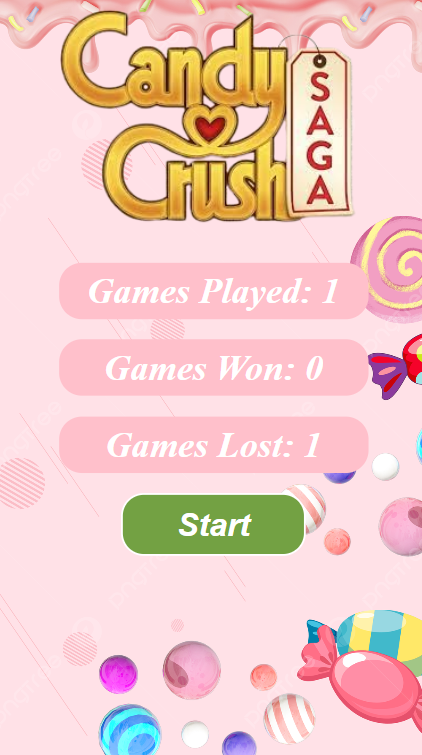
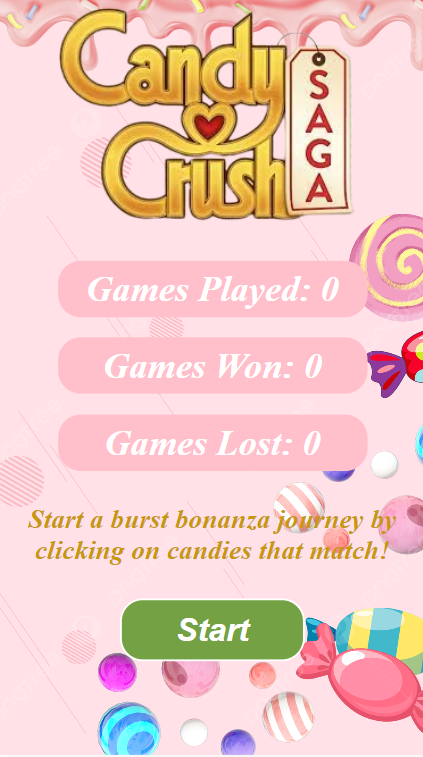
game rule displayed on home screen

diff --git a/src/App.jsx b/src/App.jsx
@@ -45,39 +45,42 @@ function App() {
     dispatch(gameLost());
   };
 
-  const candyImgs = ["/red_jelly.png", "/blue_jelly.png", "/green_jelly.png"];
-
+  // Score update sound when score changes
   useEffect(() => {
     if (totalScore > 0) {
       scoreUpdateAudio.play();
     }
   }, [totalScore]);
 
+  // Game Countdown Timer logic to stop the game
   useEffect(() => {
     if (isGameStarted && !gameOver && totalScore < targetScore) {
       const intervalId = setInterval(() => {
         setTimer((prevTime) => prevTime - 1);
         if (timer === 1) {
-          setIsGameStarted(false);
-          setGameOver(true);
+          setIsGameStarted(false); // Stops the game by setting isGameStarted to false
+          setGameOver(true); // Marks the game as over
           setModalMessage("You Lost! Try Again!");
           setShowModal(true);
-          handleGameLost();
+          handleGameLost(); // Invokes a function to handle the logic for a lost game
           loseAudio.play();
         }
       }, 1000);
 
       return () => {
-        clearInterval(intervalId);
+        clearInterval(intervalId); // interval is cleared when the component unmounts or when dependencies change.
       };
     }
   }, [timer, gameOver, isGameStarted]);
 
-  const generateRandomColors = () => {
+  const candyImgs = ["/red_jelly.png", "/blue_jelly.png", "/green_jelly.png"];
+
+  const generateRandomImages = () => {
     const randomIndex = Math.floor(Math.random() * candyImgs.length);
     return candyImgs[randomIndex];
   };
 
+  // Candy Grid Generation and Image Matching Logic:
   const generateInitialGrid = () => {
     const rows = 10;
     const cols = 10;
@@ -87,7 +90,7 @@ function App() {
     for (let i = 0; i < rows; i++) {
       const row = [];
       for (let j = 0; j < cols; j++) {
-        row.push(generateRandomColors());
+        row.push(generateRandomImages());
       }
       grid.push(row);
     }
@@ -95,6 +98,7 @@ function App() {
   };
 
   const gridSize = 10;
+  const [candyGrid, setCandyGrid] = useState(generateInitialGrid());
 
   const findConnectedCandies = (row, col, color, visited) => {
     if (
@@ -105,10 +109,9 @@ function App() {
       visited[row][col] ||
       candyGrid[row][col] !== color
     ) {
-      return [];
+      return []; // If the current cell is out of bounds, has already been visited, or contains a different color candy,return ([]).
     }
 
-    // visited[row * gridSize + col] = true;
     visited[row][col] = true;
     const connectedCandies = [{ row, col }];
 
@@ -249,7 +252,7 @@ function App() {
         // Update the grid with new colors and reset the game
         const newCandyGrid = candyGrid.map((row, rowIndex) =>
           row.map((col, colIndex) =>
-            visitedMatrix[rowIndex][colIndex] ? generateRandomColors() : col
+            visitedMatrix[rowIndex][colIndex] ? generateRandomImages() : col
           )
         );
 
@@ -257,8 +260,6 @@ function App() {
       }
     }
   };
-
-  const [candyGrid, setCandyGrid] = useState(generateInitialGrid());
 
   const handleRestart = () => {
     // Reset game state
@@ -294,6 +295,7 @@ function App() {
     setCurrentScreen("game");
     setIsGameStarted(true);
   };
+
   useEffect(() => {
     if (isGameStarted) {
       setTimer(timeLimit);

diff --git a/src/Pages/HomePg.jsx b/src/Pages/HomePg.jsx
@@ -12,7 +12,11 @@ const HomePg = ({ gamesPlayed, gamesWon, gamesLost, onStart }) => {
         <h1 className="global-pts-h1">Games Won: {gamesWon}</h1>
         <h1 className="global-pts-h1">Games Lost: {gamesLost}</h1>
       </div>
-
+      <div className="game-rules-txt">
+        <h2>
+          Start a burst bonanza journey by clicking on candies that match!
+        </h2>
+      </div>
       <button className="start-btn" onClick={onStart}>
         Start
       </button>

diff --git a/src/Pages/homePg.css b/src/Pages/homePg.css
@@ -36,6 +36,11 @@
   width: 270px;
   height: 195px;
 }
+.game-rules-txt {
+  text-align: center;
+  font-style: italic;
+  color: #c9970a;
+}
 
 @media (max-width: 415px) {
   .candyCrush-logo-container {
